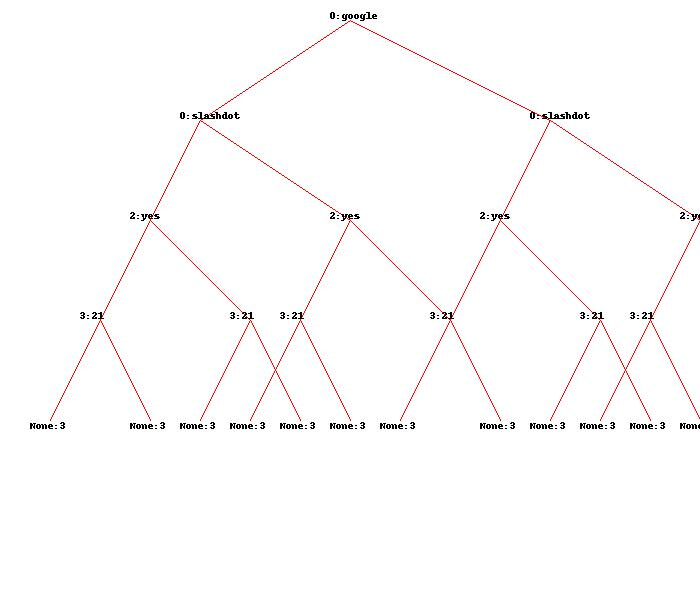
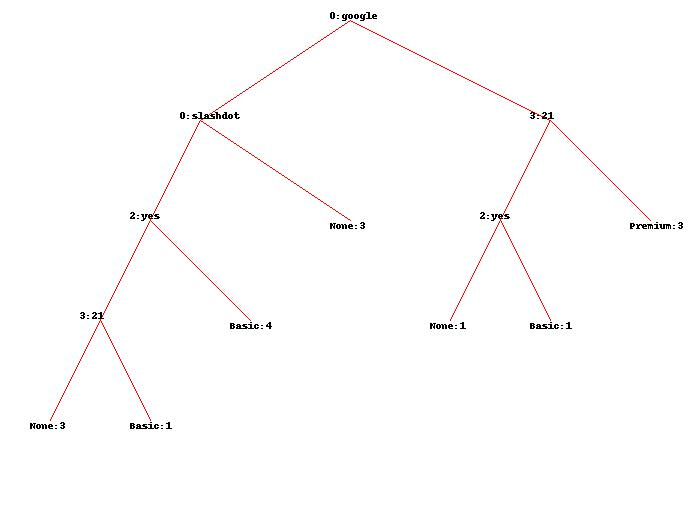
5.25

diff --git a/treePredict.py b/treePredict.py
@@ -125,7 +125,7 @@ def getdepth(tree):
 
 def drawtree(tree,jpeg='tree.jpg'):
     w=getwidth(tree)*100
-    h=getdepth(tree)*100+200
+    h=getdepth(tree)*100+120
     
     img=Image.new('RGB',(w,h),(255,255,255))
     draw=ImageDraw.Draw(img)
@@ -146,7 +146,7 @@ def drawnode(draw,tree,x,y):
         draw.line((x,y,right-w2/2,y+100),fill=(255,0,0))
         
         drawnode(draw,tree.fb,left+w1/2,y+100)
-        drawnode(draw,tree.fb,right-w2/2,y+100)
+        drawnode(draw,tree.tb,right-w2/2,y+100)
     else:
         txt='\n'.join(['%s:%d' %v for v in tree.results.items()])
         draw.text((x-20,y),txt,(0,0,0))
@@ -174,7 +174,7 @@ def prune(tree,mingain):
         prune(tree.tb,mingain)
     if tree.fb.results==None:
         prune(tree.fb,mingain)
-    if tree.fb.results!=None and tree.fb.results!=None:
+    if tree.fb.results!=None and tree.tb.results!=None:
         tb,fb=[],[]
         for v,c in tree.tb.results.items():
             tb+=[[v]]*c
@@ -218,6 +218,8 @@ def mdclassify(observation,tree):
         
 tree=bulidtree(my_data)
 printtree(tree)
-#drawtree(tree,jpeg='treeview.jpg')
-#r=classify(['(direct)','USA','yes',5],tree)
-r=mdclassify(['google',None,'yes',None],tree)
+#prune(tree,1.0)
+#printtree(tree)
+drawtree(tree,jpeg='treeview.jpg')
+r=classify(['(direct)','USA','yes',5],tree)
+#r=mdclassify(['google',None,'yes',None],tree)
